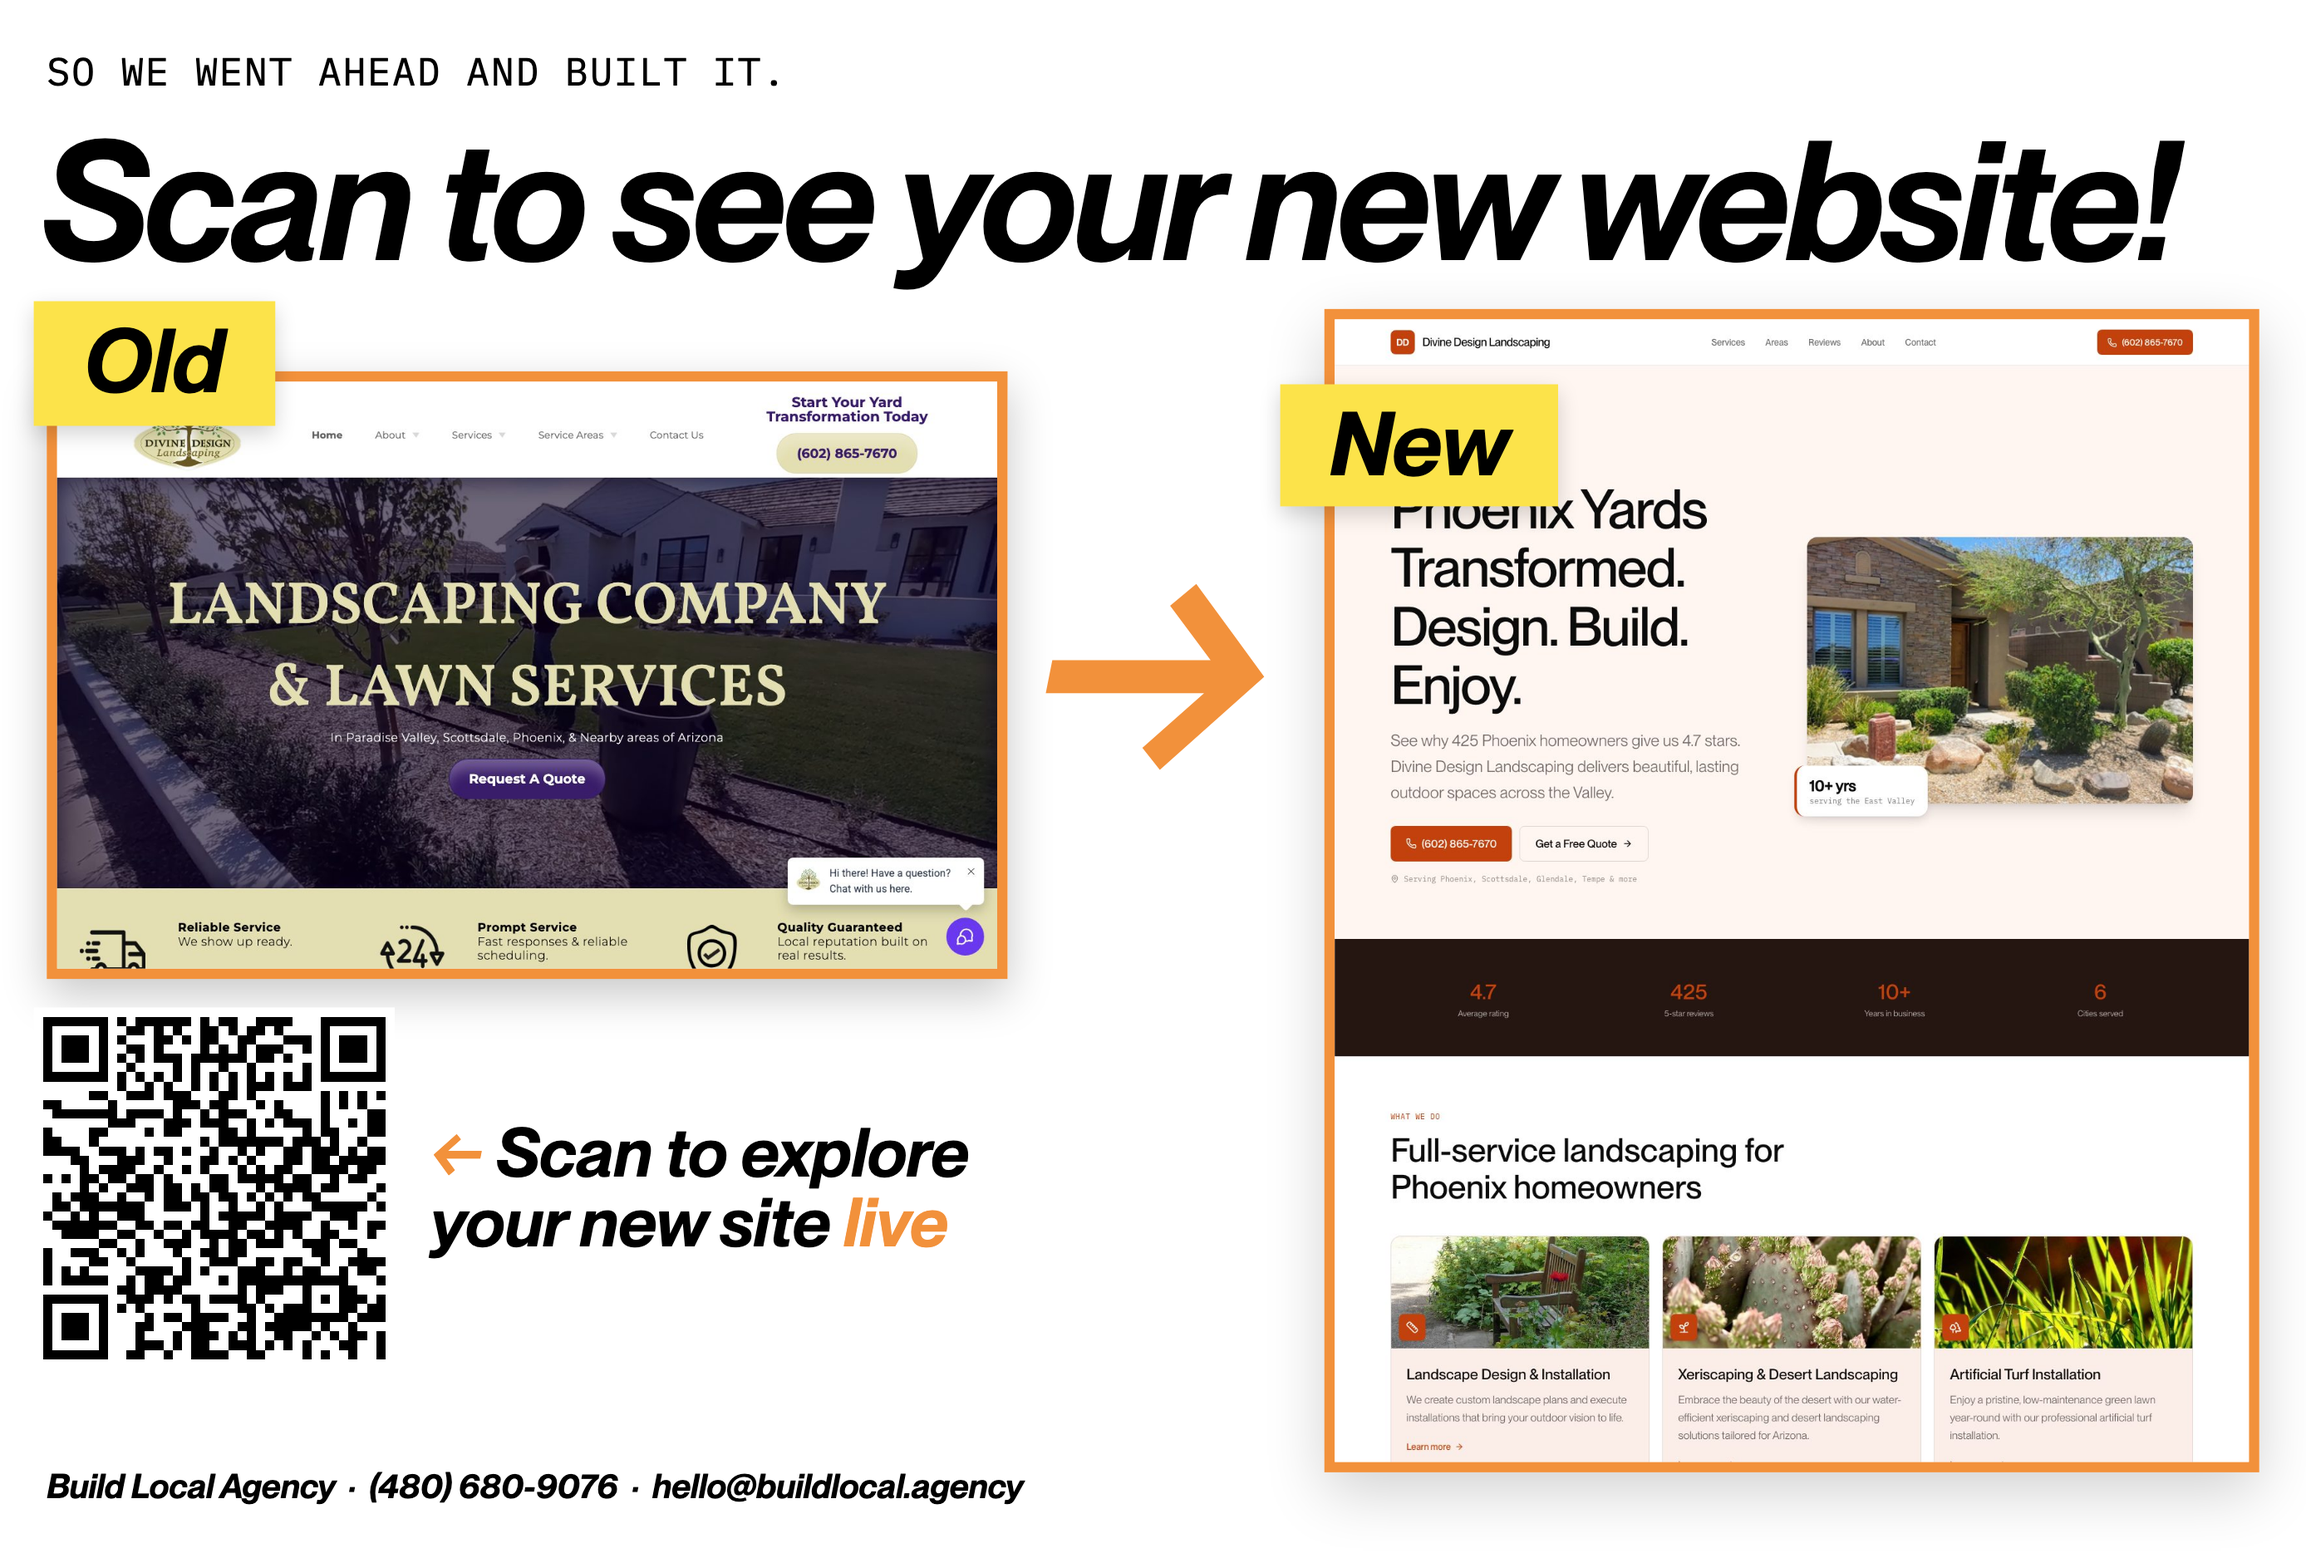
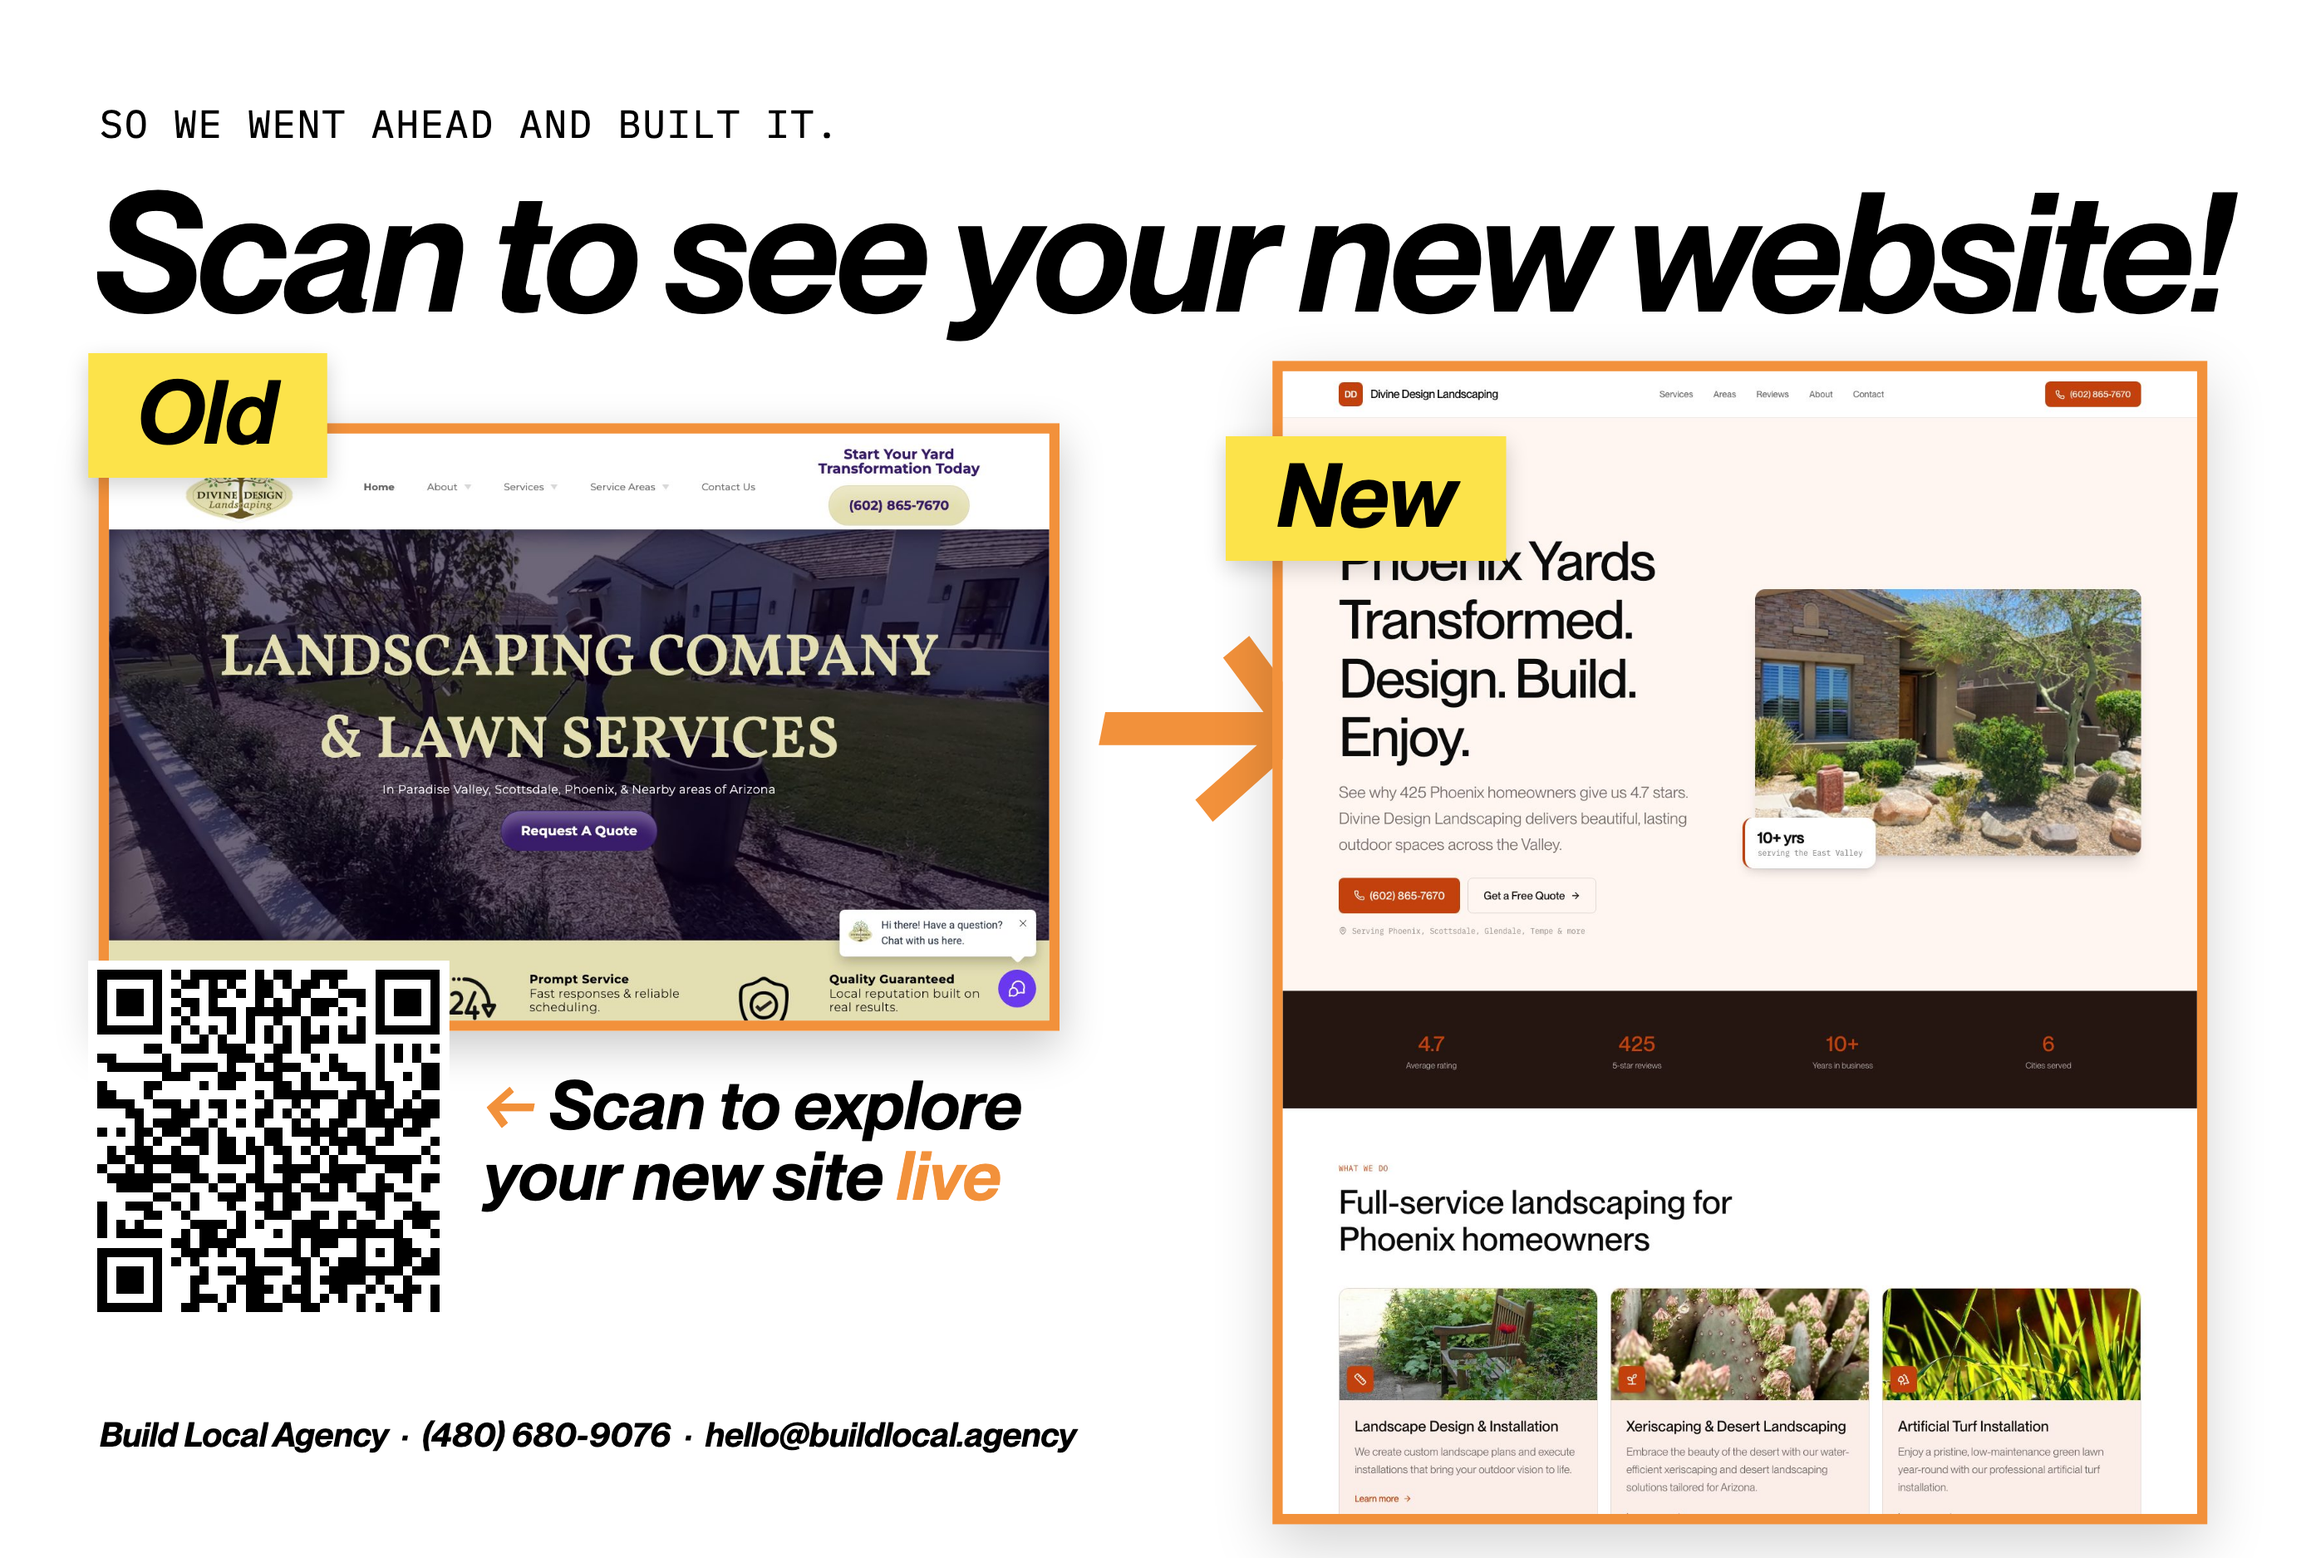
Flyer: equal 0.4in padding all around (front + back), reposition back QR panel

diff --git a/flyer/back.html b/flyer/back.html
@@ -15,7 +15,7 @@
     font-family: 'PP Neue Montreal', Arial, sans-serif;
     -webkit-print-color-adjust: exact; print-color-adjust: exact; overflow: hidden;
   }
-  #safe { position: absolute; left: 0.1875in; top: 0.1875in; width: 8.875in; height: 5.875in; }
+  #safe { position: absolute; left: 0.4in; top: 0.4in; width: 8.45in; height: 5.45in; }
 
   /* --- Header: full-width banner --- */
   .kicker { position: absolute; left: 0; top: 0; font-family:'IBM Plex Mono', monospace; font-weight:400; font-size:15px; letter-spacing:0.5px; text-transform:uppercase; color:#000; }
@@ -35,7 +35,7 @@
   .tag-new { position: absolute; left: -0.18in; top: 0.3in; background:#FCE34A; color:#000; font-style:italic; font-weight:600; font-size:34px; padding:0.02in 0.2in 0.05in; box-shadow:0 3px 8px rgba(0,0,0,0.18); z-index:5; }
 
   /* --- QR call-to-action panel, lower-left --- */
-  .qrcta { position: absolute; left: -0.05in; top: 3.85in; width: 3.9in; display:flex; align-items:center; gap:0.14in; }
+  .qrcta { position: absolute; left: -0.05in; top: 3.45in; width: 3.9in; display:flex; align-items:center; gap:0.14in; }
   .qrcta .qrbox { flex:none; width:1.45in; height:1.45in; background:#fff; padding:0; }
   .qrcta .qrbox img { width:100%; height:100%; display:block; }
   .qrcta .lbl { color:#000; font-style:italic; font-weight:600; font-size:26px; line-height:1.04; }

diff --git a/flyer/front.html b/flyer/front.html
@@ -16,7 +16,7 @@
     font-family: 'PP Neue Montreal', Arial, sans-serif;
     -webkit-print-color-adjust: exact; print-color-adjust: exact; overflow: hidden;
   }
-  #safe { position: absolute; left: 0.1875in; top: 0.1875in; width: 8.875in; height: 5.875in; }
+  #safe { position: absolute; left: 0.4in; top: 0.4in; width: 8.45in; height: 5.45in; }
 
   /* --- Logo top-left (black SVG flipped white) --- */
   .logo { position: absolute; left: 0; top: 0.05in; height: 0.42in; filter: brightness(0) invert(1); }
@@ -44,7 +44,7 @@
   .qr img { width:100%; height:100%; display:block; }
 
   /* === INK-FREE — Lob prints recipient address + postage here. LEAVE BLANK. === */
-  #ink-free { position: absolute; right: 0.275in; bottom: 0.25in; width: 4in; height: 2.375in; background:#fff; }
+  #ink-free { position: absolute; right: 0.4in; bottom: 0.4in; width: 3.9in; height: 2.3in; background:#fff; }
 </style>
 </head>
 <body>
